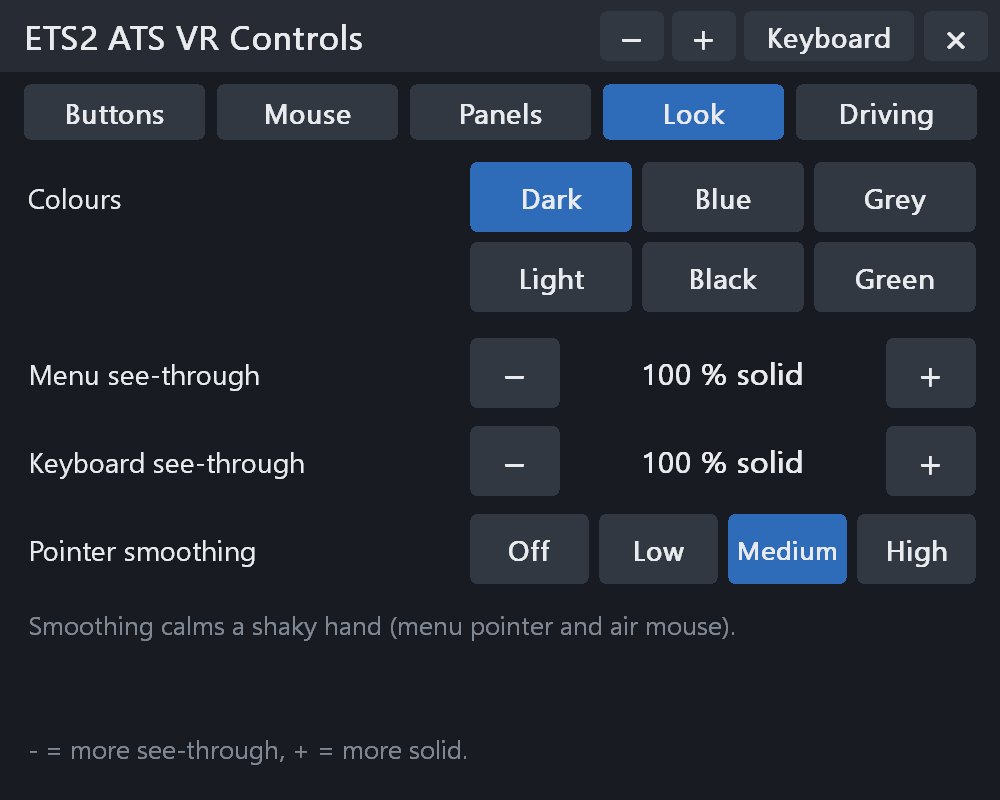
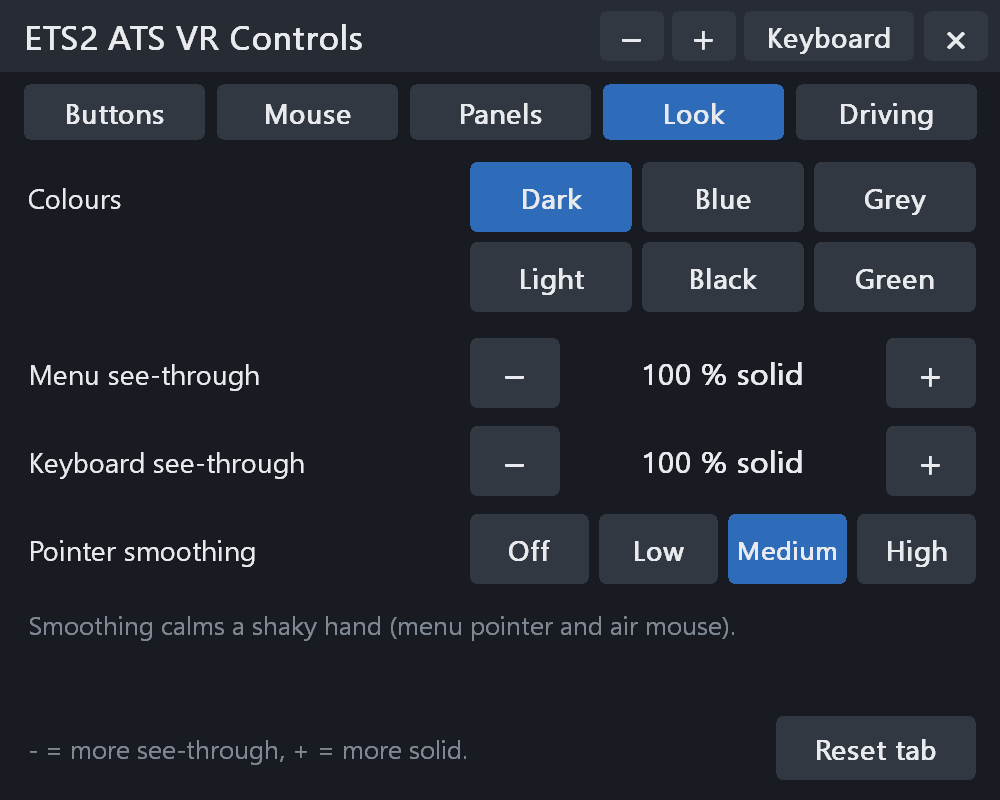
VR menu: a Reset tab button on every tab (two presses)
The user wants each tab back to its defaults. Bottom right of every tab: "Reset tab"; the first press arms it ("Sure?
Reset", any other press disarms), the second resets that tab only: Buttons = every button + modifier layer + modifier button,
Mouse = stick / air mouse, Panels = default sizes + full keyboard + both panels in front of the head, Look = theme /
opacity / smoothing, Driving = steering stick + feel. Defaults = DefaultConfig / MenuLook (= the shipped config.ini).
vr_menu_test: arm / disarm / reset per tab; screenshots; README.

Changed region(s): [[0.775, 0.875, 0.992, 1.0]]

diff --git a/src/vr_menu.cpp b/src/vr_menu.cpp
@@ -520,8 +520,8 @@ VrMenu::VrMenu(const Config& cfg, const std::wstring& path) : pad_(cfg.pad), pat
     gate_.hold = cfg.menuHold;
     place_[kPanMenu] = cfg.menuPlace;
     place_[kPanKb] = cfg.kbPlace;
-    pan_[kPanMenu].pw = kMenuW; pan_[kPanMenu].ph = kMenuH; pan_[kPanMenu].width = 0.6;
-    pan_[kPanKb].pw = kKbW; pan_[kPanKb].ph = kKbH; pan_[kPanKb].width = 0.8;
+    pan_[kPanMenu].pw = kMenuW; pan_[kPanMenu].ph = kMenuH; pan_[kPanMenu].width = kMenuWidth;
+    pan_[kPanKb].pw = kKbW; pan_[kPanKb].ph = kKbH; pan_[kPanKb].width = kKbWidth;
     look_ = cfg.look;
     if (look_.theme < 0 || look_.theme >= kThemeCount) look_.theme = 0;
     if (look_.kbCompact) { pan_[kPanKb].pw = kKbCompactW; pan_[kPanKb].width *= (double)kKbCompactW / kKbW; }   // (same key size)
@@ -689,8 +689,8 @@ void VrMenu::LayoutMenu() {
             for (int i = 0; i < 8; ++i) add(ePickOut, kOuts[i], 24 + i * 103, 716, 97, 64, kOutNames[i]);
             add(ePickCancel, 0, 852, 716, 124, 64, "Cancel");
         } else {
-            add(eInfo, 0, 24, 716, 952, 64, !status_.empty() ? status_
-                : layer_ ? "While the modifier is held, these buttons send this instead." : "Point at a button, pull the trigger, then pick its key.");
+            add(eInfo, 0, 24, 716, 742, 64, !status_.empty() ? status_
+                : layer_ ? "While the modifier is held, these buttons send this instead." : "Point at a button, pull the trigger, pick its key.");
         }
     } else if (tab_ == 1) {
         auto row = [&](int r, const char* label) { add(eInfo, 100 + r, 24, 162 + r * 88, 440, 70, label); };
@@ -719,7 +719,7 @@ void VrMenu::LayoutMenu() {
         row(5, "Air mouse speed");
         snprintf(b, sizeof(b), "%.0f px/deg", (double)pad_.airGain);
         plusMinus(5, 50, b);
-        add(eInfo, 0, 24, 716, 952, 64, status_.empty() ? "Changes work at once and are saved." : status_);
+        add(eInfo, 0, 24, 716, 742, 64, status_.empty() ? "Changes work at once and are saved." : status_);
     } else if (tab_ == 2) {
         auto row = [&](int r, const char* label) { add(eInfo, 100 + r, 24, 156 + r * 76, 440, 64, label); };
         auto plusMinus = [&](int r, int base, const std::string& value, const char* minus, const char* plus) {
@@ -753,7 +753,7 @@ void VrMenu::LayoutMenu() {
         snprintf(b, sizeof(b), " for %.1f s", gate_.hold);
         add(eInfo, 300, 24, 612, 952, 46, "Menu open / close: hold " + combo + b);
         add(eInfo, 301, 24, 656, 952, 46, "Move: point at a panel, hold the grip, move. Its stick: farther / closer.");
-        add(eInfo, 0, 24, 716, 952, 64, status_.empty() ? "The keyboard stays when the menu closes (its x hides it)." : status_);
+        add(eInfo, 0, 24, 716, 742, 64, status_.empty() ? "The keyboard stays when the menu closes (its x hides it)." : status_);
     } else if (tab_ == 3) {
         auto row = [&](int r, const char* label) { add(eInfo, 100 + r, 24, 162 + r * 88, 440, 70, label); };
         row(0, "Colours");
@@ -773,7 +773,7 @@ void VrMenu::LayoutMenu() {
         static const char* const kSm[4] = { "Off", "Low", "Medium", "High" };
         for (int i = 0; i < 4; ++i) add(eSet, 110 + i, 470 + i * 129, 514, 119, 70, kSm[i], look_.smoothing == i);
         add(eInfo, 302, 24, 596, 952, 56, "Smoothing calms a shaky hand (menu pointer and air mouse).");
-        add(eInfo, 0, 24, 716, 952, 64, status_.empty() ? "- = more see-through, + = more solid." : status_);
+        add(eInfo, 0, 24, 716, 742, 64, status_.empty() ? "- = more see-through, + = more solid." : status_);
     } else {                                            // Driving (scs_input.h): steering here, gas / brake on any button
         auto row = [&](int r, const char* label) { add(eInfo, 100 + r, 24, 162 + r * 88, 440, 70, label); };
         auto opts = [&](int r, int base, std::initializer_list<const char*> names, int cur) {
@@ -803,8 +803,10 @@ void VrMenu::LayoutMenu() {
         plusMinus(4, 139, b);
         add(eInfo, 303, 24, 600, 952, 46, "Gas / brake: any button, Buttons tab (pick Gas or Brake).");
         add(eInfo, 304, 24, 646, 952, 46, "Curve: more = finer near the middle. Speed: slower = calmer wheel.");
-        add(eInfo, 0, 24, 716, 952, 64, status_.empty() ? "Changes work at once and are saved." : status_);
+        add(eInfo, 0, 24, 716, 742, 64, status_.empty() ? "Changes work at once and are saved." : status_);
     }
+    if (!(tab_ == 0 && picking))                        // every tab: back to the defaults (a second press does it)
+        add(eSet, kResetArg, 776, 716, 200, 64, resetArm_ == tab_ ? "Sure? Reset" : "Reset tab", resetArm_ == tab_);
 }
 
 void VrMenu::LayoutKb() {
@@ -1072,6 +1074,13 @@ void VrMenu::Pick(const VrPad::Out& o) {
 
 void VrMenu::SetValue(int arg) {
     auto mul = [](float& v, bool up, float lo, float hi) { v = up ? v * 1.15f : v / 1.15f; v = v < lo ? lo : v > hi ? hi : v; };
+    if (arg == kResetArg) {                             // the first press arms, the second resets this tab
+        if (resetArm_ != tab_) { resetArm_ = tab_; status_ = "Press again: this tab goes back to the defaults."; return; }
+        resetArm_ = -1;
+        ResetTab();
+        status_ = "Back to the defaults. Saved.";
+        return;
+    }
     switch (arg) {
     case 0: case 1: case 2: pad_.mouseStick = arg == 0 ? 1 : arg == 1 ? 2 : 0; break;
     case 10: case 11: mul(pad_.mouseSpeed, arg == 11, 50.0f, 10000.0f); break;
@@ -1150,7 +1159,46 @@ void VrMenu::SetValue(int arg) {
     Save();
 }
 
+// the Reset button of the current tab: its settings as a fresh install has them (config.ini as shipped = these defaults)
+void VrMenu::ResetTab() {
+    const VrPad::Config d = VrPad::DefaultConfig();
+    switch (tab_) {
+    case 0:                                             // every button, both layers, the modifier button
+        for (int b = 0; b < VrPad::kBtnCount; ++b) { pad_.map[b] = d.map[b]; pad_.modMap[b] = d.modMap[b]; }
+        pad_.modBtn = d.modBtn;
+        pickBtn_ = -1;
+        break;
+    case 1:
+        pad_.mouseStick = d.mouseStick; pad_.mouseSpeed = d.mouseSpeed; pad_.deadzone = d.deadzone;
+        pad_.airBtn = d.airBtn; pad_.airHand = d.airHand; pad_.airToggle = d.airToggle; pad_.airGain = d.airGain;
+        break;
+    case 2: {                                           // default sizes, the full keyboard, both in front of the head
+        SetKbCompact(false);
+        pan_[kPanMenu].width = kMenuWidth;
+        pan_[kPanKb].width = kKbWidth;
+        for (int h = 0; h < 2; ++h) grab_[h] = Grab();
+        Place(kPanMenu, lastHeadOk_, lastHead_, true);
+        if (pan_[kPanKb].show) Place(kPanKb, lastHeadOk_, lastHead_, true);
+        SavePlaces();
+        break;
+    }
+    case 3: {
+        const MenuLook l;
+        look_.theme = l.theme; look_.menuOpacity = l.menuOpacity; look_.kbOpacity = l.kbOpacity; look_.smoothing = l.smoothing;
+        needRedraw_ = true;
+        break;
+    }
+    default:
+        pad_.steerStick = d.steerStick; pad_.steerDeadzone = d.steerDeadzone; pad_.steerCurve = d.steerCurve;
+        pad_.steerMax = d.steerMax; pad_.steerSpeed = d.steerSpeed;
+        break;
+    }
+    LOGI("VR menu: tab %d reset to the defaults", tab_);
+    Save();
+}
+
 void VrMenu::Activate(int h, const Ref& r, const VrPad::Frame&, VrPad::Sink& sink) {
+    if (!(r.kind == eSet && r.arg == kResetArg)) resetArm_ = -1;   // (anything else pressed: Reset is not armed any more)
     Press& ps = press_[h];
     ps = Press();
     ps.pan = r.pan; ps.kind = r.kind; ps.arg = r.arg;
@@ -1340,7 +1388,7 @@ std::string VrMenu::ContentKey(int p) const {
     // the menu: everything its tabs show (not whether it is shown itself)
     snprintf(b, sizeof(b), "%d|%d|%d|%d%d|%.3f,%.3f|%d|%.2f|%.2f|%d|%d|", pan_[1].show, tab_, pickBtn_, pickMod_, layer_, pan_[0].width,
              pan_[1].width, look_.theme, look_.menuOpacity, look_.kbOpacity, look_.smoothing, look_.kbCompact);
-    return std::string(b) + status_ + "|" + DescribePad(pad_);
+    return std::string(b) + std::to_string(resetArm_) + "|" + status_ + "|" + DescribePad(pad_);
 }
 
 }  // namespace ck

diff --git a/tests/vr_menu_test.cpp b/tests/vr_menu_test.cpp
@@ -356,6 +356,25 @@ int main(int argc, char** argv) {
         CHECK(click(1, VrMenu::kPanMenu, VrMenu::eRow, VrPad::kLGrip) &&
               click(1, VrMenu::kPanMenu, VrMenu::ePickOut, VrPad::kNone) && m.Pad().map[VrPad::kLGrip].kind == VrPad::kNone,
               "left grip = none again");
+        // Reset tab: the first press only arms it (another press elsewhere disarms), the second resets that tab only
+        CHECK(click(1, VrMenu::kPanMenu, VrMenu::eRow, VrPad::kLGrip) && click(1, VrMenu::kPanMenu, VrMenu::ePickOut, VrPad::kBrake),
+              "left grip = Brake again");
+        CHECK(click(1, VrMenu::kPanMenu, VrMenu::eSet, VrMenu::kResetArg) && m.Pad().map[VrPad::kLGrip].kind == VrPad::kBrake,
+              "Reset pressed once: nothing reset yet");
+        CHECK(click(1, VrMenu::kPanMenu, VrMenu::eSet, 120) && click(1, VrMenu::kPanMenu, VrMenu::eSet, VrMenu::kResetArg) &&
+              m.Pad().map[VrPad::kLGrip].kind == VrPad::kBrake, "another press in between: Reset armed again only");
+        CHECK(click(1, VrMenu::kPanMenu, VrMenu::eSet, VrMenu::kResetArg) && m.Pad().map[VrPad::kLGrip].kind == VrPad::kNone &&
+              m.Pad().map[VrPad::kLTrig].kind == VrPad::kGas && m.Pad().modMap[VrPad::kB].kind == VrPad::kMouseR,
+              "Buttons tab reset: the default buttons");
+        CHECK(click(1, VrMenu::kPanMenu, VrMenu::eRow, VrPad::kA) && click(1, VrMenu::kPanKb, VrMenu::eKey, VrMenu::KeyIndex("shift")) &&
+              click(1, VrMenu::kPanKb, VrMenu::eKey, VrMenu::KeyIndex("f")) && m.Pad().map[VrPad::kA].n == 2,
+              "A = Shift + F again (as the config.ini checks below expect)");
+        CHECK(click(1, VrMenu::kPanMenu, VrMenu::eTab, 4) && click(1, VrMenu::kPanMenu, VrMenu::eSet, 139) &&
+              click(1, VrMenu::kPanMenu, VrMenu::eSet, 131) && m.Pad().steerSpeed == 1.5f && m.Pad().steerStick == 2, "Driving changed");
+        const float mouseSpeed = m.Pad().mouseSpeed;
+        CHECK(click(1, VrMenu::kPanMenu, VrMenu::eSet, VrMenu::kResetArg) && click(1, VrMenu::kPanMenu, VrMenu::eSet, VrMenu::kResetArg) &&
+              m.Pad().steerSpeed == 2.0f && m.Pad().steerStick == 1 && m.Pad().mouseSpeed == mouseSpeed,
+              "Driving tab reset (the Mouse tab untouched)");
         CHECK(click(1, VrMenu::kPanMenu, VrMenu::eTab, 3), "Look tab again");
     }
     WriteBmp(dir + L"\\menu.bmp", m, VrMenu::kPanMenu);
@@ -575,6 +594,21 @@ int main(int argc, char** argv) {
         press(VrMenu::kPanMenu, VrMenu::eSet, 83);       // compact
         settle(away);
         WriteBmp(shots + L"\\keyboard-compact.bmp", ms, VrMenu::kPanKb);
+        // (after the shots) Reset on the Panels tab: default sizes, the full keyboard; on the Look tab: the default look
+        press(VrMenu::kPanMenu, VrMenu::eSet, 61);       // menu bigger
+        press(VrMenu::kPanMenu, VrMenu::eSet, VrMenu::kResetArg);
+        press(VrMenu::kPanMenu, VrMenu::eSet, VrMenu::kResetArg);
+        CHECK(std::fabs(ms.Pan(VrMenu::kPanMenu).width - 0.6) < 1e-6 && std::fabs(ms.Pan(VrMenu::kPanKb).width - 0.8) < 1e-6 &&
+              !ms.Look().kbCompact, "Panels tab reset: 0.6 m menu, 0.8 m full keyboard (%.3f, %.3f)", ms.Pan(VrMenu::kPanMenu).width,
+              ms.Pan(VrMenu::kPanKb).width);
+        press(VrMenu::kPanMenu, VrMenu::eTab, 3);
+        press(VrMenu::kPanMenu, VrMenu::eSet, 104);      // black
+        press(VrMenu::kPanMenu, VrMenu::eSet, 92);       // keyboard more see-through
+        CHECK(ms.Look().theme == 4 && ms.Look().kbOpacity < 0.95f, "Look changed");
+        press(VrMenu::kPanMenu, VrMenu::eSet, VrMenu::kResetArg);
+        press(VrMenu::kPanMenu, VrMenu::eSet, VrMenu::kResetArg);
+        CHECK(ms.Look().theme == 0 && ms.Look().kbOpacity == 0.95f && ms.Look().menuOpacity == 0.95f && ms.Look().smoothing == 2,
+              "Look tab reset: dark, 95 %%, medium smoothing");
     }
     printf("%d checks, %d failed\n", g_checks, g_fails);
     return g_fails ? 1 : 0;

diff --git a/src/vr_menu.h b/src/vr_menu.h
@@ -118,6 +118,7 @@ public:
     std::string Describe() const;
     // element kinds (public for the tests)
     enum Kind { eNone, eBar, eClose, eSmaller, eBigger, eKbBtn, eTab, eRow, ePickOut, ePickCancel, eSet, eKey, eHere, eInfo };
+    static constexpr int kResetArg = 150;         // eSet arg of every tab's Reset button (tests)
     void Open(bool headOk, const Pose& head);     // as the combo does (tests)
     static int KeyIndex(const char* name);        // tests: the eKey arg of a keyboard key ("f1", "shift"); -1 = none
     void Close();                                 // the menu (the keyboard stays as it is)
@@ -146,6 +147,8 @@ private:
     void ShowKb(bool on);
     void SetKbCompact(bool on);
     void Pick(const VrPad::Out& o);
+    void ResetTab();                              // the current tab's settings back to the defaults (its Reset button)
+    static constexpr double kMenuWidth = 0.6, kKbWidth = 0.8;   // default panel widths (metres; the full keyboard)
     void Save();
     void SavePlaces();
 
@@ -158,6 +161,7 @@ private:
     int           pickBtn_ = -1;          // the button being set (a key / mouse button is picked next)
     bool          pickMod_ = false;       // ... its entry for while the modifier is held
     int           layer_ = 0;             // Buttons tab: 0 normal, 1 with the modifier held
+    int           resetArm_ = -1;         // the tab whose Reset was pressed once (the next press resets it)
     MenuLook      look_;
     bool          kbPending_ = false;     // keyboard_show without a saved place: shown at the first frame with the head
     struct Grab { int pan = -1; Pose off; };

diff --git a/README.md b/README.md
@@ -170,6 +170,8 @@ a laser pointer. A **white dot** appears where you point, and the key under it l
   the wheel and the steering speed. Gas and brake: any button, Buttons tab. See [Driving](#driving-with-one-controller).
 - **Look** tab: colours (Dark, Blue, Grey, Light, Black, Green), how see-through the menu and the keyboard are, and
   **pointer smoothing** (Off / Low / Medium / High): calms a shaky hand, for the menu pointer and the air mouse.
+- **Reset tab** (bottom right of every tab): puts that tab's settings back to the defaults. Press it twice (the first
+  press asks "Sure?"). Only that tab changes. On the Panels tab it also brings both panels in front of you.
 - **Keyboard** (button at the top of the menu): a full keyboard with F-keys, arrows and number pad. A key goes down when
   you pull the trigger and up when you let go. Shift, Ctrl and Alt stay on for the next key.
   The keyboard **stays** when the menu closes, also at the next game start (put it at the side of your cab). Its x hides it.
